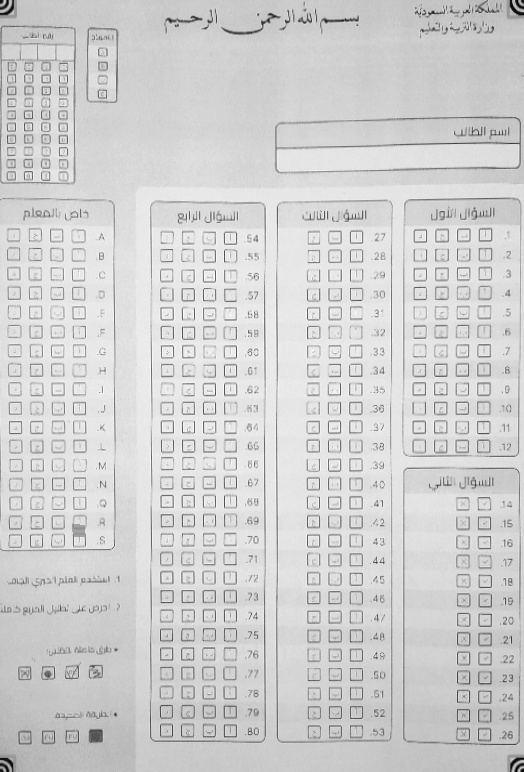
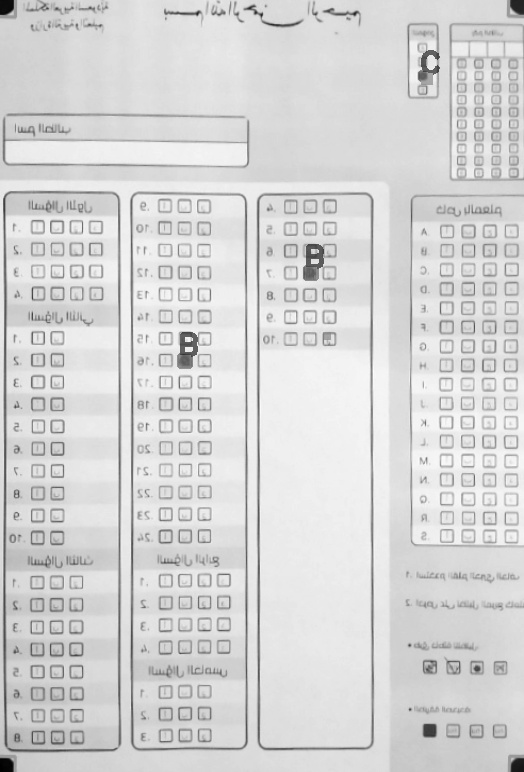
reverse omr read

Changed region(s): [[0.0, 0.0, 1.0, 1.0], [0.2748, 0.0, 0.7023, 0.0933], [0.5191, 0.1554, 0.5496, 0.2176]]

diff --git a/src/defaults/config.py b/src/defaults/config.py
@@ -11,14 +11,14 @@ CONFIG_DEFAULTS = DotMap(
         "threshold_params": {
             "GAMMA_LOW": 0.7,
             "MIN_GAP": 30,
-            "MIN_JUMP": 25,
+            "MIN_JUMP": 0,
             "CONFIDENT_SURPLUS": 5,
             "JUMP_DELTA": 30,
             "PAGE_TYPE_FOR_THRESHOLD": "white",
         },
         "alignment_params": {
             # Note: 'auto_align' enables automatic template alignment, use if the scans show slight misalignments.
-            "auto_align": False,
+            "auto_align": True,
             "match_col": 5,
             "max_steps": 20,
             "stride": 1,

diff --git a/src/core.py b/src/core.py
@@ -41,7 +41,8 @@ class ImageInstanceOps:
         auto_align = config.alignment_params.auto_align
         try:
             img = image.copy()
-            # origDim = img.shape[:2]
+            # Reverse the image horizontally to change reading direction
+            img = cv2.flip(img, 1)
             img = ImageUtils.resize_util(
                 img, template.page_dimensions[0], template.page_dimensions[1]
             )
